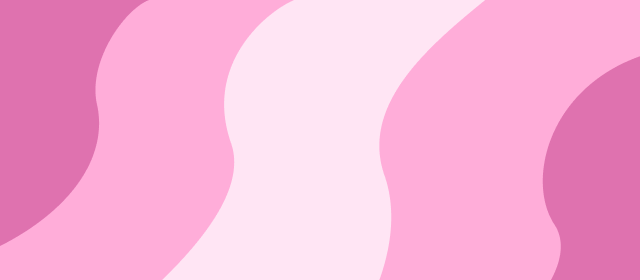
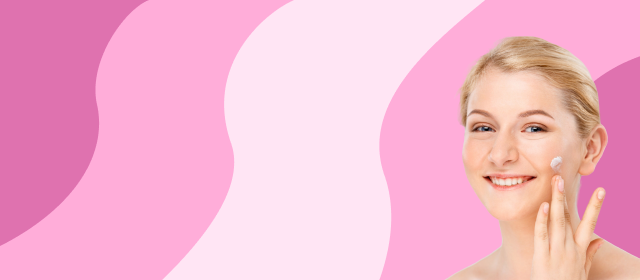
fix : change all image content

Changed region(s): [[0.6875, 0.1143, 1.0, 1.0]]

diff --git a/blog-page.html b/blog-page.html
@@ -115,7 +115,7 @@
                     </div>
                     <div class="col">
                         <div class="card card-product overflow-hidden h-100 border-0 shadow-web">
-                            <img src="/image/Artikel.png" class="card-img-top" alt="Skincare Product" />
+                            <img src="/image/Artikel 2.png" class="card-img-top" alt="Skincare Product" />
                             <div class="card-body" style="display: flex; flex-direction: column; height: 100%;">
                                 <div>
                                     <span class="badge bg-web2 mb-2">Skincare</span>
@@ -130,7 +130,7 @@
                     </div>
                     <div class="col">
                         <div class="card card-product overflow-hidden h-100 border-0 shadow-web">
-                            <img src="/image/Artikel.png" class="card-img-top" alt="Skincare Product" />
+                            <img src="/image/Artikel 3.png" class="card-img-top" alt="Skincare Product" />
                             <div class="card-body" style="display: flex; flex-direction: column; height: 100%;">
                                 <div>
                                     <span class="badge bg-web2 mb-2">Tips dan Trik</span>
@@ -145,7 +145,7 @@
                     </div>
                     <div class="col">
                         <div class="card card-product overflow-hidden h-100 border-0 shadow-web">
-                            <img src="/image/Artikel.png" class="card-img-top" alt="Skincare Product" />
+                            <img src="/image/Artikel 4.png" class="card-img-top" alt="Skincare Product" />
                             <div class="card-body" style="display: flex; flex-direction: column; height: 100%;">
                                 <div>
                                     <span class="badge bg-web2 mb-2">Review</span>
@@ -160,7 +160,7 @@
                     </div>
                     <div class="col">
                         <div class="card card-product overflow-hidden h-100 border-0 shadow-web">
-                            <img src="/image/Artikel.png" class="card-img-top" alt="Skincare Product" />
+                            <img src="/image/Artikel 5.png" class="card-img-top" alt="Skincare Product" />
                             <div class="card-body" style="display: flex; flex-direction: column; height: 100%;">
                                 <div>
                                     <span class="badge bg-web2 mb-2">Perawatan</span>
@@ -175,7 +175,7 @@
                     </div>
                     <div class="col">
                         <div class="card card-product overflow-hidden h-100 border-0 shadow-web">
-                            <img src="/image/Artikel.png" class="card-img-top" alt="Skincare Product" />
+                            <img src="/image/Artikel 6.png" class="card-img-top" alt="Skincare Product" />
                             <div class="card-body" style="display: flex; flex-direction: column; height: 100%;">
                                 <div>
                                     <span class="badge bg-web2 mb-2">Kesehatan</span>
@@ -190,7 +190,7 @@
                     </div>
                     <div class="col">
                         <div class="card card-product overflow-hidden h-100 border-0 shadow-web">
-                            <img src="/image/Artikel.png" class="card-img-top" alt="Skincare Product" />
+                            <img src="/image/Artikel 7.png" class="card-img-top" alt="Skincare Product" />
                             <div class="card-body" style="display: flex; flex-direction: column; height: 100%;">
                                 <div>
                                     <span class="badge bg-web2 mb-2">Seputar Kulit</span>
@@ -205,7 +205,7 @@
                     </div>
                     <div class="col">
                         <div class="card card-product overflow-hidden h-100 border-0 shadow-web">
-                            <img src="/image/Artikel.png" class="card-img-top" alt="Skincare Product" />
+                            <img src="/image/Artikel 8.png" class="card-img-top" alt="Skincare Product" />
                             <div class="card-body" style="display: flex; flex-direction: column; height: 100%;">
                                 <div>
                                     <span class="badge bg-web2 mb-2">Trending</span>

diff --git a/about-page.html b/about-page.html
@@ -106,7 +106,7 @@
                     </div>
                 </div>
                 <div class="col-md-4">
-                    <img src="/image/About Hero.png" class="img-fluid" alt="About Hero 2">
+                    <img src="/image/About Hero 2.png" class="img-fluid" alt="About Hero 2">
                 </div>
             </div>
         </div>
